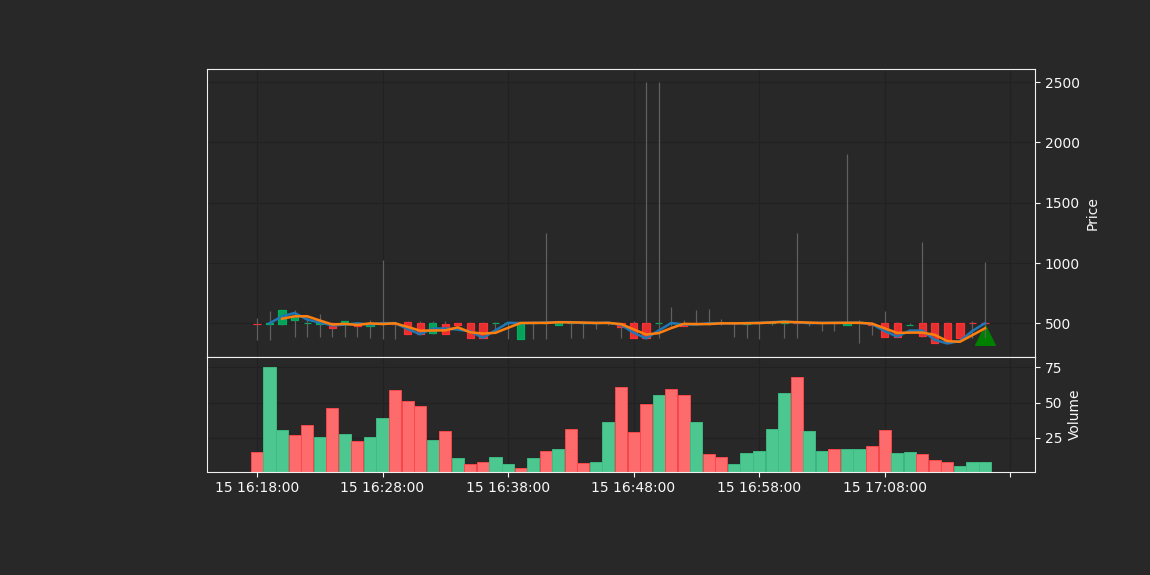
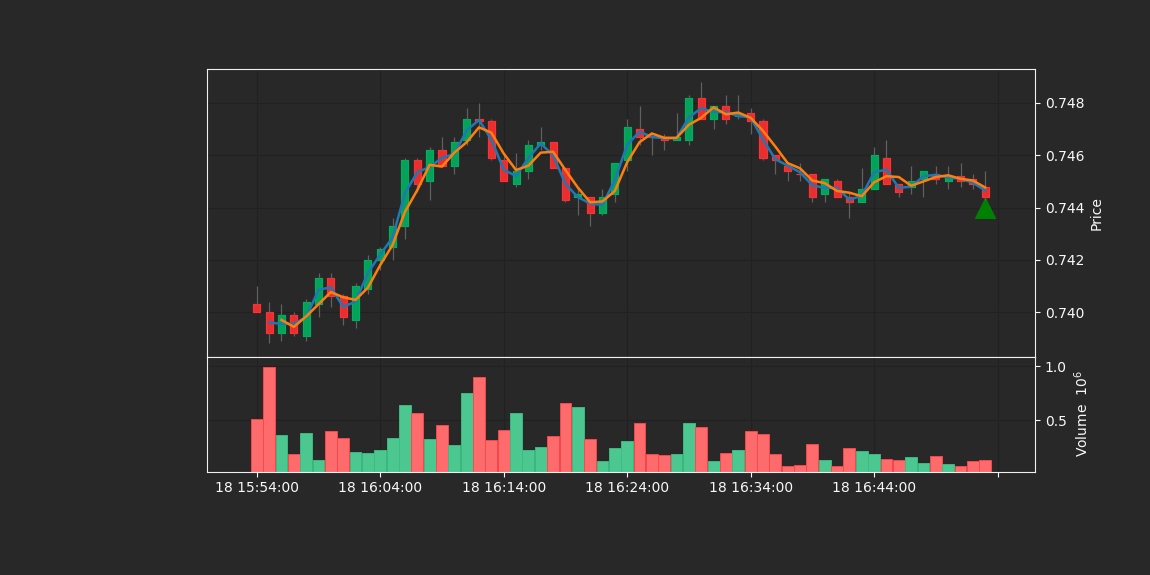
future

diff --git a/bot.py b/bot.py
@@ -21,7 +21,7 @@ TEST = config.DEBUG
 
 # get average price for x last trade
 sma_d = 2
-sma_l = 30
+sma_l = 3
 # define the difference between buy/sell price
 added_val = 0.001
 # contain id of sell limit order
@@ -29,14 +29,17 @@ order_id = 0
 in_position = False
 
 # init client for binance api
-client = Client(config.API_KEY, config.API_SECRET, tld='com')
+client = Client(config.API_KEY, config.API_SECRET, tld='com',testnet=config.DEBUG)
 
 if TEST :
-    # use testnet api
+    # use testnet wss
     SOCKET = "wss://testnet.binance.vision/ws/"+config.PAIR+"@kline_1m"
-    client.API_URL = 'https://testnet.binance.vision/api'
 else:
     SOCKET = "wss://stream.binance.com:9443/ws/"+config.PAIR+"@kline_1m"
+
+if config.FUTURE:
+    SOCKET = "wss://fstream.binance.com/ws/"+config.PAIR+"@kline_1m"
+    #client.API_URL = 'https://fapi.binance.com'
 
 # clear tst.csv/trade.csv
 with open("tst.csv", "w") as f: 
@@ -156,9 +159,9 @@ async def twet_graph(tweet_content,fav):
     fig.savefig('tweettest.png',facecolor='#282828')
 
     # post graph on twitter and get id
-    id = api.update_status_with_media(tweet_content,"tweettest.png").id
-    if fav:
-        api.create_favorite(id)
+    #id = api.update_status_with_media(tweet_content,"tweettest.png").id
+    #if fav:
+    #    api.create_favorite(id)
 
     print("save graph")
 
@@ -173,7 +176,10 @@ async def save_trade(b_s,price):
 
 # save older candle in tst.csv
 async def save_data():
-    klines = client.get_historical_klines(config.PAIR.upper(), Client.KLINE_INTERVAL_1MINUTE, "1 hour ago UTC")
+    if config.FUTURE:
+        klines = client.futures_historical_klines(config.PAIR.upper(), Client.KLINE_INTERVAL_1MINUTE, "1 hour ago UTC")
+    else:
+        klines = client.get_historical_klines(config.PAIR.upper(), Client.KLINE_INTERVAL_1MINUTE, "1 hour ago UTC")
     async with aiofiles.open('tst.csv', mode='w') as f:
         await f.write("Date,Open,High,Low,Close,Volume")
         for line in klines:
@@ -195,10 +201,17 @@ def order(limit,side, quantity=TRADE_QUANTITY, symbol=TRADE_SYMBOL,order_type=OR
         # check if order has a price limit
         if limit > 0:
             # place limit order
-            order = client.create_order(symbol=symbol,side=side,type=ORDER_TYPE_LIMIT,quantity=TRADE_QUANTITY,price=limit,timeInForce=TIME_IN_FORCE_GTC)
+            if config.FUTURE:
+                order = client.futures_create_order(symbol=symbol,side=side,type=FUTURE_ORDER_TYPE_LIMIT,quantity=TRADE_QUANTITY,price=limit,timeInForce=TIME_IN_FORCE_GTC)
+            else:
+                order = client.create_order(symbol=symbol,side=side,type=ORDER_TYPE_LIMIT,quantity=TRADE_QUANTITY,price=limit,timeInForce=TIME_IN_FORCE_GTC)
         else:
             # place market order
-            order = client.create_order(symbol=symbol,side=side,type=order_type, quantity=quantity)
+            if config.FUTURE:
+                client.futures_change_leverage(symbol=symbol, leverage=config.FUTURE_LEVERAGE)
+                order = client.futures_create_order(symbol=symbol,side=side,type=order_type, quantity=quantity)
+            else:
+                order = client.create_order(symbol=symbol,side=side,type=order_type, quantity=quantity)
 
         print("sending order")
         print(order)
@@ -218,15 +231,15 @@ def on_close(ws):
     print('closed connection')
 
 def on_message(ws, message):
-    global in_position,order_id,api,added_val,sma_d,sma_l,buy,sell
+    global in_position,order_id,api,added_val,sma_d,sma_l
 
     # retrieve last trade
     json_message = json.loads(message)  
     candle = json_message['k']
 
-    is_candle_closed = candle['x']
-    if is_candle_closed:
-        asyncio.run(twet_graph(":)",False))
+    # is_candle_closed = candle['x']
+    # if is_candle_closed:
+    #     asyncio.run(twet_graph(":)",False))
         
     # run save older data 
     asyncio.run(save_data())
@@ -242,8 +255,9 @@ def on_message(ws, message):
     # retrieve last close price
     close = float(candle['c'])
 
-    #asyncio.run(twet_graph("test",True))
-
+    asyncio.run(twet_graph("test",True))
+    #df = pd.DataFrame(client.futures_order_book(symbol=TRADE_SYMBOL))
+    #print(df[['bids', 'asks']].head())
     print("current price :",close)
     print("lower than : ",sma_long," higher than : ",sma)
     # sell section
@@ -263,7 +277,7 @@ def on_message(ws, message):
             print("waiting for sell : ",sorder)
     else:
     # buy section
-        if (close > sma) & (close < sma_long):
+        if (close > sma):
             order_succeeded = order(0,SIDE_BUY, TRADE_QUANTITY, TRADE_SYMBOL)
             if order_succeeded:
                 in_position = True
@@ -273,9 +287,11 @@ def on_message(ws, message):
 
                 # defines the intervals that a price/stopPrice can be increased/decreased by
                 # https://binance-docs.github.io/apidocs/delivery/en/#filters
+                tickf = float(client.get_symbol_info(config.PAIR.upper())['filters'][0]["tickSize"])
+
                 tickSize_limit = round_step_size(
                     close + added_val,
-                    float(client.get_symbol_info(config.PAIR.upper())['filters'][0]["tickSize"]))
+                    tickf)
 
                 # create sell limit order
                 order_sell_limit = order(tickSize_limit,SIDE_SELL, TRADE_QUANTITY, TRADE_SYMBOL)

diff --git a/config.py b/config.py
@@ -7,9 +7,12 @@ C_SECRET = 'R8J9tUWf0I4V0O4BmggOHQuwvHOgRUF1aYFvTlIc010SnD9fuR'
 A_T = '1265285941624811520-VtPzQN6E3NQsLtnJx91P1GwfYmXPwp'
 A_T_S = 'rWQfTBOjgoH3dopJ0NhBkH053AtX9HvWrOZaXIUorVVwd'
 #VAR
-PAIR = 'bnbusdt'
+PAIR = 'xrpusdt'
 PAIR_S = 'usdt'
-PAIR_B = "bnb"
-QUANTITY = '20'
+PAIR_B = "xrp"
+QUANTITY = '10'
 #ENVIRONMENT
-DEBUG = True
+DEBUG = False
+#FUTURE
+FUTURE = True
+FUTURE_LEVERAGE = '1'

diff --git a/README.md b/README.md
@@ -1,5 +1,5 @@
 # AUTOMATE BINANCE BUY/SELL
-
+warning : use at ur own fckn risk
 ## CONFIG.PY
 
    ### BINANCE
@@ -17,16 +17,18 @@
     QUANTITY = '20'
    ### ENVIRONMENT
     DEBUG = True
+   ### FUTURE
+    FUTURE = True
+    FUTURE_LEVERAGE = '1'
 
 ## COMMAND
 
     python3 bot.py
-    python3 app.py (web server)
 
 
 ## IMPORT
 
-      pip install python-binance websocket-client aiofiles pandas asyncio aiocsv numpy mplfinance tweepy
+      pip install python-binance websocket-client aiofiles pandas asyncio aiocsv numpy mplfinance tweepy binance-futures-connector
       
 ## TWEETER API | Tweepy API V1.1
 
@@ -57,3 +59,4 @@ click on app and replace "setting" by "auth-settings" in url,
  * https://pypi.org/project/asyncio/
  * https://github.com/matplotlib/mplfinance
  * https://docs.tweepy.org/en/stable/
+ * https://github.com/Binance-docs/binance-futures-connector-python
